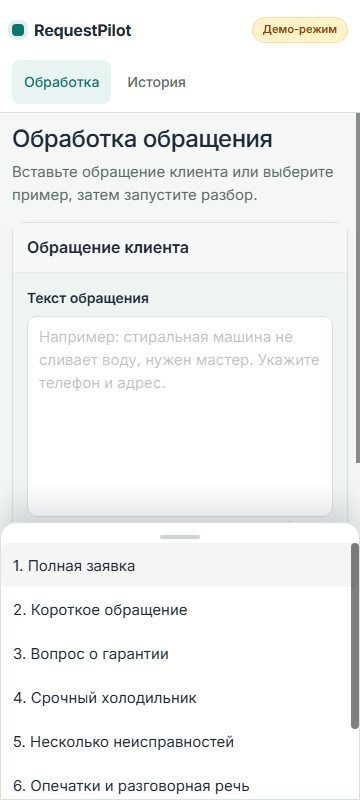
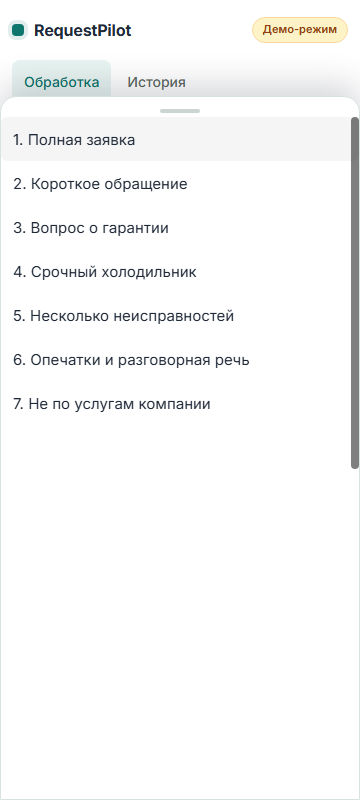
Раскрывать мобильные селекты почти на весь экран

diff --git a/src/styles/responsive.css b/src/styles/responsive.css
@@ -181,9 +181,12 @@
     right: 0 !important;
     bottom: 0 !important;
     left: 0 !important;
+    display: flex;
+    flex-direction: column;
     width: 100% !important;
+    height: 88vh !important;
     max-width: 100% !important;
-    max-height: 60vh;
+    max-height: 88vh !important;
     padding: 4px 0 env(safe-area-inset-bottom);
     overflow: hidden;
     border: 1px solid var(--border);
@@ -200,10 +203,18 @@
     margin: 8px auto 4px;
     border-radius: 999px;
     background: #cbd5d1;
+    flex: 0 0 auto;
+  }
+
+  .ant-select-dropdown.app-select-sheet .rc-virtual-list {
+    flex: 1 1 auto;
+    min-height: 0;
+    height: 100% !important;
   }
 
   .ant-select-dropdown.app-select-sheet .rc-virtual-list-holder {
-    max-height: calc(60vh - 24px);
+    height: 100% !important;
+    max-height: none !important;
   }
 
   .ant-select-dropdown.app-select-sheet .ant-select-item-option {

diff --git a/README.md b/README.md
@@ -33,7 +33,7 @@
 - Мобильная версия от 360 px: одна колонка, отсутствие горизонтальной прокрутки,
   цели нажатия от 44 px. После разбора страница прокручивается к результату, пока
   он ниже видна кнопка «К результату», кнопка сохранения закреплена внизу.
-  Селекты на телефоне открываются нижней шторкой.
+  Селекты на телефоне открываются нижней шторкой почти на весь экран.
 - Доступность: видимые подписи, `aria-describedby` и `role="alert"` у ошибок,
   фокус на заголовке результата и сохранённой записи, клавиатурная навигация,
   контраст не ниже 4.5:1, модальные окна Ant Design с удержанием фокуса и Esc,
